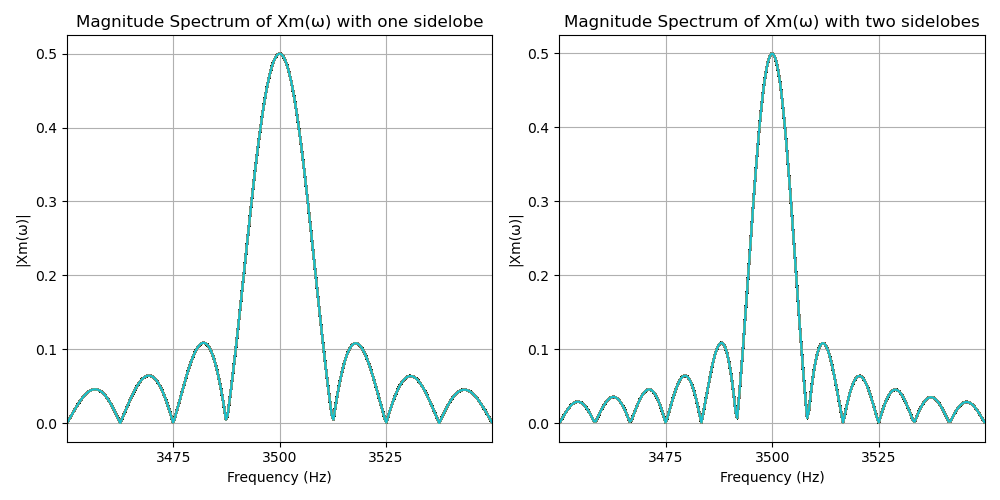
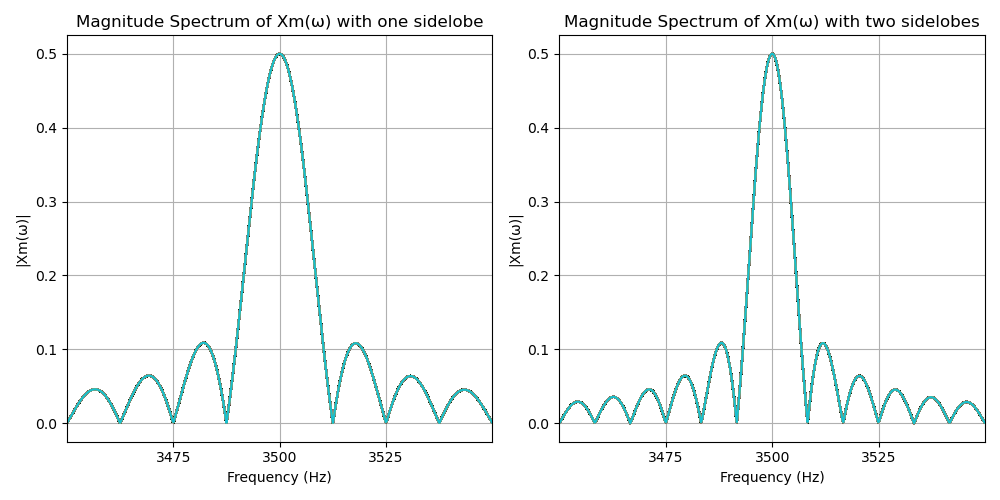
Linspace change

diff --git a/1b.py b/1b.py
@@ -15,7 +15,7 @@ t1 = np.linspace(-3 * T_b_1, 3 * T_b_1, 1000)
 t2 = np.linspace(-3 * T_b_2, 3 * T_b_2, 1000)
 
 # Frequency vector for plot
-freqs = np.linspace(3400, 3600, 500) * 2 * np.pi
+freqs = np.linspace(3400, 3600, 1000) * 2 * np.pi
 
 
 def X_b_w(T_b, N, w, t):  # nothing done for b_n
